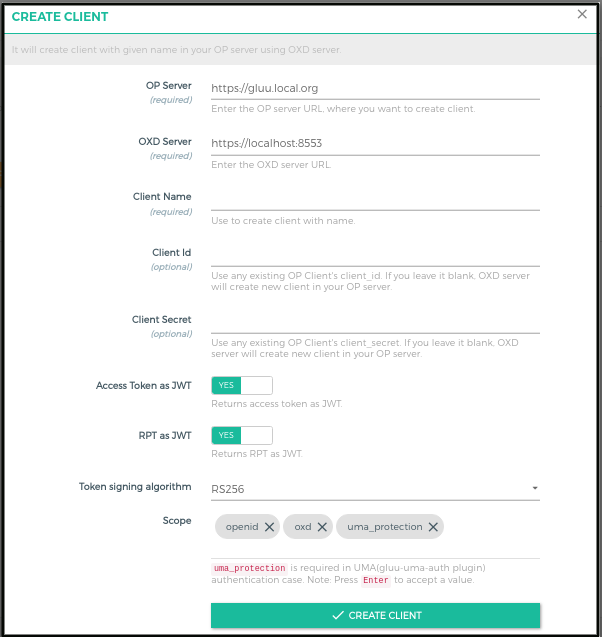
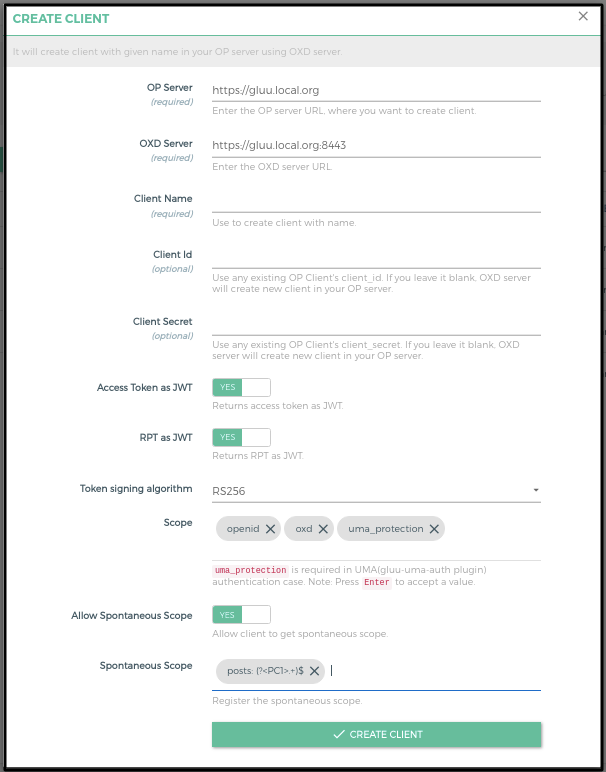
Add spontaneous scope descrption for consumer section

Changed region(s): [[0.0, 0.0, 1.0, 1.0], [0.3588, 0.3281, 0.897, 0.3878], [0.2392, 0.3878, 0.3289, 0.4474]]

diff --git a/docs/source/admin-guide/consumer-config.md b/docs/source/admin-guide/consumer-config.md
@@ -29,6 +29,8 @@ An OAuth Client is required to add a consumer in Kong. This is the same client t
      | **RPT as JWT**(optional) |It will create client with `RPT as JWT:true`. It is used to return access token(RPT) as JWT. The Gluu UMA PEP plugin supports JWT RPT access tokens.|
      | **Token signing algorithm**(optional) | The default token signing algorithm for the client. It is used for both OAuth access tokens and UMA RPT tokens. Currently, plugins only support 3 algorithms: **RS256**, **RS384** and **RS512**.|
      | **Scope**|The scope for the OP Client. `uma_protection` is required in UMA(gluu-uma-auth plugin) authentication case. Note: Press Enter to accept a value.|
+     | **Allow Spontaneous Scope**|Used to configure client which Allow client to issue and register the spontaneous scope.|
+     | **Spontaneous Scope** |Used to add list of spontaneous scope. Which supports the PCRE regexp. Chech [here](../../plugin/common-features/#spontaneous-scope) for more details.|
 
 ## Add Kong Consumer
 
